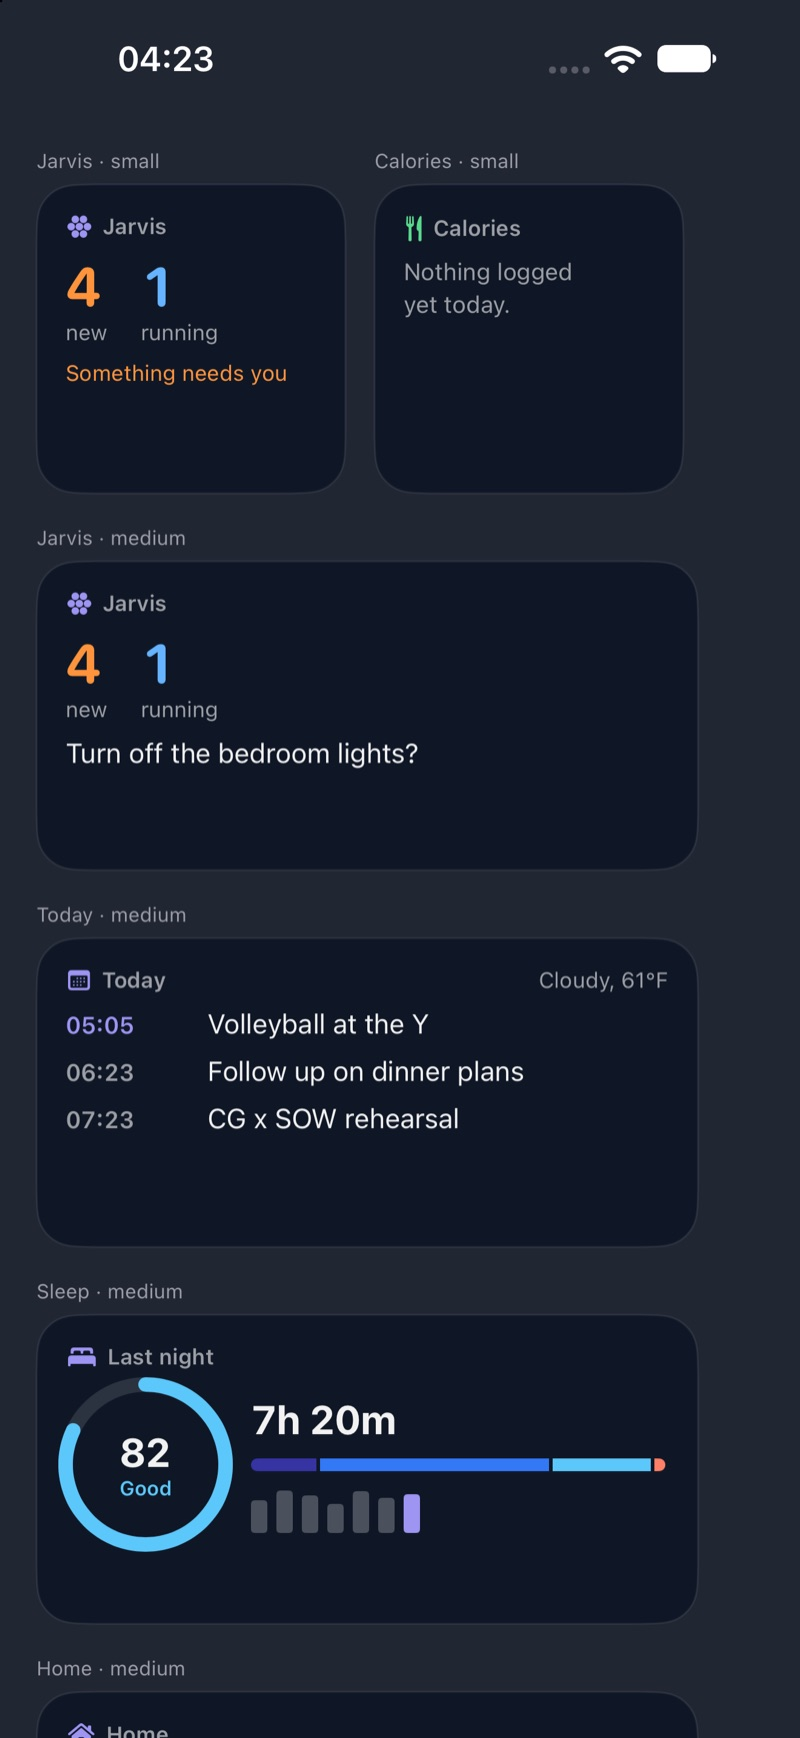
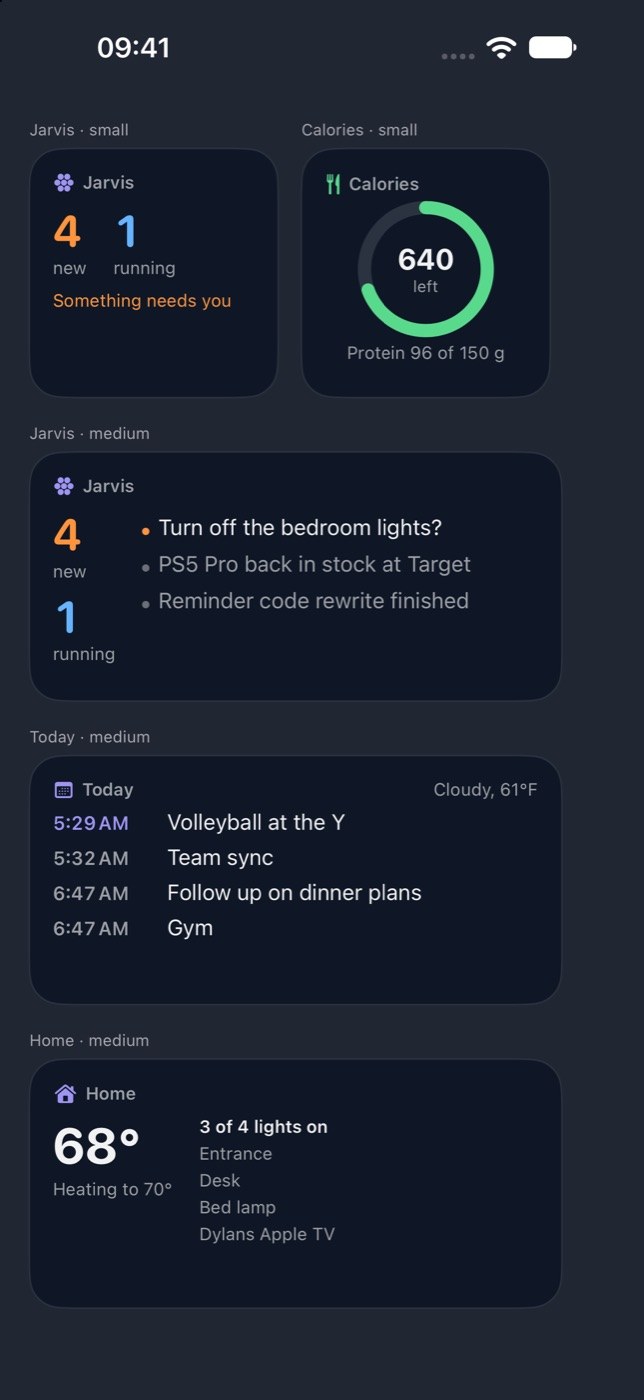
Widgets: 12h times, uncut lock lines, fuller Today and Jarvis, light mode
- Lock lines split so nothing truncates; Today lock gives the next title its own line (JarvisWidgets.swift)
- Jarvis medium lists the three newest notices; Today medium shows 4 rows, large 8
- Colours adapt to light mode; WidgetGlance.notices + lockLines with tests
- Gallery: filled Calories, Home in full, real iPad extra-large board, light and tinted pictures

diff --git a/ios/LiveActivity/JarvisWidgets.swift b/ios/LiveActivity/JarvisWidgets.swift
@@ -13,10 +13,16 @@ import SwiftUI
 import WidgetKit
 
 enum WidgetLook {
-    static let sky = Color(red: 0.06, green: 0.09, blue: 0.15)
-    static let frost = Color(white: 0.95)
-    static let dim = Color(white: 0.95).opacity(0.62)
-    static let faint = Color(white: 0.95).opacity(0.4)
+    /// Night sky in dark mode, paper in light mode.
+    private static func both(_ dark: UIColor, _ light: UIColor) -> Color {
+        Color(uiColor: UIColor { $0.userInterfaceStyle == .dark ? dark : light })
+    }
+    static let sky = both(UIColor(red: 0.06, green: 0.09, blue: 0.15, alpha: 1), UIColor(red: 0.97, green: 0.97, blue: 0.99, alpha: 1))
+    static let frost = both(UIColor(white: 0.95, alpha: 1), UIColor(white: 0.08, alpha: 1))
+    static let dim = both(UIColor(white: 0.95, alpha: 0.62), UIColor(white: 0.08, alpha: 0.6))
+    static let faint = both(UIColor(white: 0.95, alpha: 0.4), UIColor(white: 0.08, alpha: 0.38))
+    /// The empty part of a ring or bar.
+    static let track = both(UIColor(white: 1, alpha: 0.12), UIColor(white: 0, alpha: 0.09))
     static let orange = Color(red: 1.0, green: 0.58, blue: 0.24)
     static let blue = Color(red: 0.40, green: 0.70, blue: 1.0)
     static let accent = Color(red: 0.62, green: 0.58, blue: 0.95)
@@ -153,26 +159,44 @@ struct GlanceView: View {
         case .accessoryRectangular:
             VStack(alignment: .leading, spacing: 1) {
                 Text("Jarvis").font(.headline).widgetAccentable()
-                Text(g?.noticeWords ?? "Nothing new").lineLimit(1)
-                if let g, g.running > 0 { Text("\(g.running) running").lineLimit(1) }
+                // Two short lines rather than one long one, so nothing is cut.
+                ForEach(g?.lockLines ?? ["Open Jarvis once"], id: \.self) { Text($0).lineLimit(1) }
             }
             .frame(maxWidth: .infinity, alignment: .leading)
         default:
             VStack(alignment: .leading, spacing: 8) {
                 Header(title: "Jarvis", symbol: "circle.hexagongrid.fill")
                 if let g {
-                    HStack(spacing: 18) {
-                        count(g.unread, "new", Look.orange, lit: g.unread > 0)
-                        count(g.running, "running", Look.blue, lit: g.running > 0)
-                    }
                     if family == .systemMedium {
-                        if let newest = g.newestNotice {
-                            Text(newest).font(.subheadline).foregroundStyle(Look.frost).lineLimit(2)
-                        } else {
-                            Text("Nothing needs you.").font(.subheadline).foregroundStyle(Look.dim)
+                        // Counts down the left, the newest notices beside them.
+                        HStack(alignment: .top, spacing: 18) {
+                            VStack(alignment: .leading, spacing: 6) {
+                                count(g.unread, "new", Look.orange, lit: g.unread > 0)
+                                count(g.running, "running", Look.blue, lit: g.running > 0)
+                            }
+                            let titles = g.notices ?? g.newestNotice.map { [$0] } ?? []
+                            VStack(alignment: .leading, spacing: 7) {
+                                if titles.isEmpty {
+                                    Text("Nothing needs you.").font(.subheadline).foregroundStyle(Look.dim)
+                                }
+                                ForEach(Array(titles.prefix(3).enumerated()), id: \.offset) { index, title in
+                                    HStack(alignment: .firstTextBaseline, spacing: 6) {
+                                        Circle().fill(index == 0 && g.needsYou ? Look.orange : Look.faint).frame(width: 5, height: 5)
+                                        Text(title).font(.subheadline).foregroundStyle(index == 0 ? Look.frost : Look.dim).lineLimit(2)
+                                    }
+                                }
+                            }
+                            .padding(.top, 4)
+                            .frame(maxWidth: .infinity, alignment: .leading)
                         }
-                    } else if g.needsYou {
-                        Text("Something needs you").font(.caption).foregroundStyle(Look.orange).lineLimit(1)
+                    } else {
+                        HStack(spacing: 18) {
+                            count(g.unread, "new", Look.orange, lit: g.unread > 0)
+                            count(g.running, "running", Look.blue, lit: g.running > 0)
+                        }
+                        if g.needsYou {
+                            Text("Something needs you").font(.caption).foregroundStyle(Look.orange).lineLimit(1)
+                        }
                     }
                     Spacer(minLength: 0)
                     AsOf(glance: g, now: entry.date)
@@ -213,18 +237,24 @@ struct TodayWidgetView: View {
     let family: WidgetFamily
 
     var body: some View {
-        let limit = family == .systemLarge ? 7 : family == .accessoryRectangular ? 2 : 3
+        let limit = family == .systemLarge ? 8 : family == .accessoryRectangular ? 2 : 4
         let items = entry.glance?.upcoming(at: entry.date, limit: limit) ?? []
         if family == .accessoryRectangular {
             VStack(alignment: .leading, spacing: 1) {
                 if items.isEmpty { Text("Nothing else today").font(.headline) }
-                ForEach(Array(items.enumerated()), id: \.offset) { _, item in
-                    Text("\(timeLabel(item, now: entry.date))  \(item.title)").lineLimit(1)
+                // The next one gets the time on its own line and the title the
+                // full width under it; the one after shares a line.
+                if let next = items.first {
+                    Text(timeLabel(next, now: entry.date)).font(.headline).widgetAccentable()
+                    Text(next.title).lineLimit(1)
+                }
+                if items.count > 1 {
+                    Text("\(timeLabel(items[1], now: entry.date))  \(items[1].title)").lineLimit(1).foregroundStyle(.secondary)
                 }
             }
             .frame(maxWidth: .infinity, alignment: .leading)
         } else {
-            VStack(alignment: .leading, spacing: family == .systemLarge ? 12 : 8) {
+            VStack(alignment: .leading, spacing: family == .systemLarge ? 11 : 6) {
                 HStack {
                     Header(title: "Today", symbol: "calendar")
                     Spacer()
@@ -290,7 +320,7 @@ struct CaloriesWidgetView: View {
                     HStack {
                         Spacer()
                         ZStack {
-                            Circle().stroke(Color.white.opacity(0.12), lineWidth: 9)
+                            Circle().stroke(Look.track, lineWidth: 9)
                             Circle().trim(from: 0, to: progress)
                                 .stroke(food.left >= 0 ? Look.green : Look.orange, style: StrokeStyle(lineWidth: 9, lineCap: .round))
                                 .rotationEffect(.degrees(-90))
@@ -369,7 +399,7 @@ struct SleepWidgetView: View {
     private func ring(_ sleep: WidgetGlance.Sleep) -> some View {
         let tint = Look.band(sleep.band)
         return ZStack {
-            Circle().stroke(Color.white.opacity(0.12), lineWidth: 8)
+            Circle().stroke(Look.track, lineWidth: 8)
             if let score = sleep.score {
                 Circle().trim(from: 0, to: CGFloat(score) / 100)
                     .stroke(tint, style: StrokeStyle(lineWidth: 8, lineCap: .round))
@@ -404,7 +434,7 @@ struct SleepWidgetView: View {
         HStack(alignment: .bottom, spacing: 5) {
             ForEach(Array(scores.enumerated()), id: \.offset) { index, score in
                 RoundedRectangle(cornerRadius: 2)
-                    .fill(index == scores.count - 1 ? Look.accent : Color.white.opacity(0.25))
+                    .fill(index == scores.count - 1 ? Look.accent : Look.faint)
                     .frame(width: 9, height: max(3, 26 * CGFloat(score ?? 0) / 100))
             }
         }
@@ -478,10 +508,10 @@ struct BoardView: View {
     var body: some View {
         HStack(alignment: .top, spacing: 18) {
             TodayWidgetView(entry: entry, family: .systemLarge)
-            Rectangle().fill(Color.white.opacity(0.12)).frame(width: 1)
+            Rectangle().fill(Look.track).frame(width: 1)
             VStack(spacing: 14) {
                 GlanceView(entry: entry, family: .systemMedium)
-                Rectangle().fill(Color.white.opacity(0.12)).frame(height: 1)
+                Rectangle().fill(Look.track).frame(height: 1)
                 HomeWidgetView(entry: entry, family: .systemMedium)
             }
         }

diff --git a/ios/App/WidgetGallery.swift b/ios/App/WidgetGallery.swift
@@ -10,6 +10,17 @@ struct WidgetGallery: View {
         var g = WidgetGlance.from($0)
         // Made-up food for the picture when the sample day has none.
         if g.food == nil { g.food = WidgetGlance.Food(left: 640, goal: 2100, protein: 96, proteinGoal: 150) }
+        // A realistic day for the Today widgets: made-up items after now.
+        let now = DemoSnapshot.now
+        let day = Calendar.current.startOfDay(for: now)
+        let extra = [("Team sync", 0.75), ("Gym", 2.0), ("Lunch", 3.5), ("Dentist", 5.0), ("Groceries pickup", 7.0), ("Call the plumber", 8.5), ("Dinner", 10.0)]
+        for (title, hours) in extra where g.agenda.count < 8 {
+            let start = Calendar.current.date(byAdding: .minute, value: Int(hours * 60), to: now) ?? now
+            guard Calendar.current.isDate(start, inSameDayAs: day) else { continue }
+            g.agenda.append(WidgetGlance.Item(title: title, start: start, end: nil, allDay: false))
+        }
+        g.agenda.sort { $0.start < $1.start }
+        if (g.notices ?? []).count < 3 { g.notices = (g.notices ?? []) + ["Approve: renew the domain", "Marketplace deal watch found 2 listings", "Weekly backup finished"].prefix(3 - (g.notices ?? []).count) }
         return g
     }
     private let page = ProcessInfo.processInfo.arguments.firstIndex(of: "-galleryPage").flatMap { i in
@@ -18,7 +29,7 @@ struct WidgetGallery: View {
 
     private func tile<V: View>(_ title: String, _ w: CGFloat, _ h: CGFloat, @ViewBuilder _ content: () -> V) -> some View {
         VStack(alignment: .leading, spacing: 6) {
-            Text(title).font(.caption2).foregroundStyle(.secondary)
+            Text(title).font(.caption2).foregroundStyle(scheme == .light ? Color.black.opacity(0.55) : Color.white.opacity(0.6))
             content()
                 .padding(16)
                 .frame(width: w, height: h)
@@ -29,11 +40,24 @@ struct WidgetGallery: View {
 
     private func lock<V: View>(_ title: String, _ w: CGFloat, _ h: CGFloat, @ViewBuilder _ content: () -> V) -> some View {
         VStack(alignment: .leading, spacing: 6) {
-            Text(title).font(.caption2).foregroundStyle(.secondary)
+            Text(title).font(.caption2).foregroundStyle(scheme == .light ? Color.black.opacity(0.55) : Color.white.opacity(0.6))
             content()
                 .frame(width: w, height: h)
                 .foregroundStyle(.white)
                 .background(RoundedRectangle(cornerRadius: 14, style: .continuous).fill(Color.white.opacity(0.10)))
+        }
+    }
+
+    private func tinted<V: View>(_ title: String, _ w: CGFloat, _ h: CGFloat, @ViewBuilder _ content: () -> V) -> some View {
+        VStack(alignment: .leading, spacing: 6) {
+            Text(title).font(.caption2).foregroundStyle(.white.opacity(0.7))
+            content()
+                .environment(\.colorScheme, .dark)
+                .grayscale(1)
+                .colorMultiply(Color(red: 1.0, green: 0.85, blue: 0.6))
+                .padding(16)
+                .frame(width: w, height: h)
+                .background(RoundedRectangle(cornerRadius: 22, style: .continuous).fill(.black.opacity(0.35)))
         }
     }
 
@@ -46,16 +70,20 @@ struct WidgetGallery: View {
                 case 1:
                     tile("Today · large", 364, 382) { TodayWidgetView(entry: e, family: .systemLarge) }
                     HStack(spacing: 16) {
-                        tile("Calories · small", 170, 170) { CaloriesWidgetView(entry: e, family: .systemSmall) }
                         tile("Sleep · small", 170, 170) { SleepWidgetView(entry: e, family: .systemSmall) }
+                        tile("Calories · small", 170, 170) { CaloriesWidgetView(entry: e, family: .systemSmall) }
                     }
+                    tile("Sleep · medium", 364, 170) { SleepWidgetView(entry: e, family: .systemMedium) }
                 case 2:
+                    Text("Lock Screen").font(.headline).foregroundStyle(.white)
                     HStack(spacing: 16) {
-                        lock("Jarvis · lock", 76, 76) { GlanceView(entry: e, family: .accessoryCircular) }
-                        lock("Calories · lock", 76, 76) { CaloriesWidgetView(entry: e, family: .accessoryCircular) }
-                        lock("Jarvis · lock", 172, 76) { GlanceView(entry: e, family: .accessoryRectangular).padding(.horizontal, 8) }
+                        lock("Jarvis", 76, 76) { GlanceView(entry: e, family: .accessoryCircular) }
+                        lock("Calories", 76, 76) { CaloriesWidgetView(entry: e, family: .accessoryCircular) }
                     }
-                    lock("Today · lock", 172, 76) { TodayWidgetView(entry: e, family: .accessoryRectangular).padding(.horizontal, 8) }
+                    HStack(spacing: 16) {
+                        lock("Jarvis", 172, 76) { GlanceView(entry: e, family: .accessoryRectangular).padding(.horizontal, 8) }
+                        lock("Today", 172, 76) { TodayWidgetView(entry: e, family: .accessoryRectangular).padding(.horizontal, 8) }
+                    }
                     Text("Empty states").font(.headline).foregroundStyle(.white)
                     HStack(spacing: 16) {
                         tile("Jarvis · small", 170, 170) { GlanceView(entry: none, family: .systemSmall) }
@@ -64,6 +92,16 @@ struct WidgetGallery: View {
                     tile("Today · medium", 364, 170) { TodayWidgetView(entry: none, family: .systemMedium) }
                 case 3:
                     tile("Jarvis board · iPad extra large", 715, 334) { BoardView(entry: e) }
+                case 4:
+                    // The tinted Home Screen, approximated: iOS draws the real
+                    // one itself (monochrome over the wallpaper, in his tint).
+                    HStack(spacing: 16) {
+                        tinted("Jarvis · small", 170, 170) { GlanceView(entry: e, family: .systemSmall) }
+                        tinted("Calories · small", 170, 170) { CaloriesWidgetView(entry: e, family: .systemSmall) }
+                    }
+                    tinted("Jarvis · medium", 364, 170) { GlanceView(entry: e, family: .systemMedium) }
+                    tinted("Today · medium", 364, 170) { TodayWidgetView(entry: e, family: .systemMedium) }
+                    tinted("Home · medium", 364, 170) { HomeWidgetView(entry: e, family: .systemMedium) }
                 default:
                     HStack(spacing: 16) {
                         tile("Jarvis · small", 170, 170) { GlanceView(entry: e, family: .systemSmall) }
@@ -71,14 +109,29 @@ struct WidgetGallery: View {
                     }
                     tile("Jarvis · medium", 364, 170) { GlanceView(entry: e, family: .systemMedium) }
                     tile("Today · medium", 364, 170) { TodayWidgetView(entry: e, family: .systemMedium) }
-                    tile("Sleep · medium", 364, 170) { SleepWidgetView(entry: e, family: .systemMedium) }
                     tile("Home · medium", 364, 170) { HomeWidgetView(entry: e, family: .systemMedium) }
                 }
             }
             .padding(20)
             .frame(maxWidth: .infinity, alignment: .leading)
         }
-        .background(Color(red: 0.13, green: 0.15, blue: 0.2).ignoresSafeArea())
+        .background(background.ignoresSafeArea())
+        .environment(\.colorScheme, scheme)
+        .preferredColorScheme(scheme)
+    }
+
+    /// `-galleryLight`: everything in light mode.
+    private let scheme: ColorScheme = ProcessInfo.processInfo.arguments.contains("-galleryLight") ? .light : .dark
+    private var background: some View {
+        Group {
+            if page == 4 {
+                LinearGradient(colors: [Color(red: 0.35, green: 0.22, blue: 0.12), Color(red: 0.12, green: 0.08, blue: 0.1)], startPoint: .top, endPoint: .bottom)
+            } else if scheme == .light {
+                Color(red: 0.85, green: 0.88, blue: 0.93)
+            } else {
+                Color(red: 0.13, green: 0.15, blue: 0.2)
+            }
+        }
     }
 }
 #endif

diff --git a/ios/Sources/JarvisKit/WidgetGlance.swift b/ios/Sources/JarvisKit/WidgetGlance.swift
@@ -20,6 +20,8 @@ public struct WidgetGlance: Codable, Equatable, Sendable {
     public var sleep: Sleep?
     /// The newest unread notice's title, as Jarvis wrote it.
     public var newestNotice: String?
+    /// The newest few unread notice titles, newest first (medium widgets).
+    public var notices: [String]?
     /// "Cloudy, 61°F".
     public var weather: String?
     /// Today's food: calories left of the goal, protein (the Watch's numbers).
@@ -54,6 +56,9 @@ public struct WidgetGlance: Codable, Equatable, Sendable {
         public var start: Date
         public var end: Date?
         public var allDay: Bool
+        public init(title: String, start: Date, end: Date?, allDay: Bool) {
+            self.title = title; self.start = start; self.end = end; self.allDay = allDay
+        }
     }
 
     public struct Sleep: Codable, Equatable, Sendable {
@@ -103,6 +108,7 @@ public struct WidgetGlance: Codable, Equatable, Sendable {
         var glance = WidgetGlance(updated: now, unread: unread.count, needsYou: unread.contains { $0.kind == .need },
                                   running: snapshot.jobs?.running.count ?? 0, agenda: Array(ahead.prefix(6)), sleep: sleep)
         glance.newestNotice = Notices.sorted(unread).first?.title
+        glance.notices = Notices.sorted(unread).prefix(3).map(\.title)
         glance.needCount = unread.filter { $0.kind == .need }.count
         if let weather = snapshot.home?.weather {
             glance.weather = TodayWording.weatherWords(weather.condition) + (weather.temperature.map { ", \(Int($0.rounded()))\(weather.unit)" } ?? "")
@@ -138,6 +144,19 @@ public struct WidgetGlance: Codable, Equatable, Sendable {
             return unread == need ? "\(need) need\(need == 1 ? "s" : "") you" : "\(unread) new · \(need) need\(need == 1 ? "s" : "") you"
         }
         return unread > 0 ? "\(unread) new" : nil
+    }
+
+    /// The Lock Screen's two short lines: "4 new" then "1 needs you" or
+    /// "2 running" (each short enough never to be cut).
+    public var lockLines: [String] {
+        var lines = [unread > 0 ? "\(unread) new" : "Nothing new"]
+        if needsYou {
+            let need = max(1, needCount)
+            lines.append("\(need) need\(need == 1 ? "s" : "") you")
+        } else if running > 0 {
+            lines.append("\(running) running")
+        }
+        return lines
     }
 
     public func encoded() -> Data? { try? JSONEncoder().encode(self) }

diff --git a/ios/Tests/JarvisKitTests/SleepReadTests.swift b/ios/Tests/JarvisKitTests/SleepReadTests.swift
@@ -181,6 +181,28 @@ final class WidgetGlanceTests: XCTestCase {
         XCTAssertNotNil(g.home)
         XCTAssertNotNil(WidgetGlance.decode(g.encoded()), "round trip through the app group")
         XCTAssertTrue(g.agenda.allSatisfy { ($0.end ?? $0.start.addingTimeInterval(3600)) > now }, "only what's still to come")
+        XCTAssertEqual(g.notices?.first, g.newestNotice)
+        XCTAssertLessThanOrEqual(g.notices?.count ?? 0, 3)
+    }
+
+    /// The Lock Screen's lines stay short enough never to be cut.
+    func testLockLinesAreShort() {
+        var g = WidgetGlance(updated: Date(), unread: 4, needsYou: true, running: 1, agenda: [], sleep: nil)
+        g.needCount = 1
+        XCTAssertEqual(g.lockLines, ["4 new", "1 needs you"])
+        g.needsYou = false
+        XCTAssertEqual(g.lockLines, ["4 new", "1 running"])
+        g.unread = 0; g.running = 0
+        XCTAssertEqual(g.lockLines, ["Nothing new"])
+        g.unread = 128; g.needsYou = true; g.needCount = 12
+        XCTAssertTrue(g.lockLines.allSatisfy { $0.count <= 12 })
+    }
+
+    /// An older glance without the notice list still decodes.
+    func testOlderGlanceStillDecodes() throws {
+        var g = WidgetGlance(updated: Date(), unread: 1, needsYou: false, running: 0, agenda: [], sleep: nil)
+        g.notices = nil
+        XCTAssertNotNil(WidgetGlance.decode(g.encoded()))
     }
 
     func testNoticeWords() {
